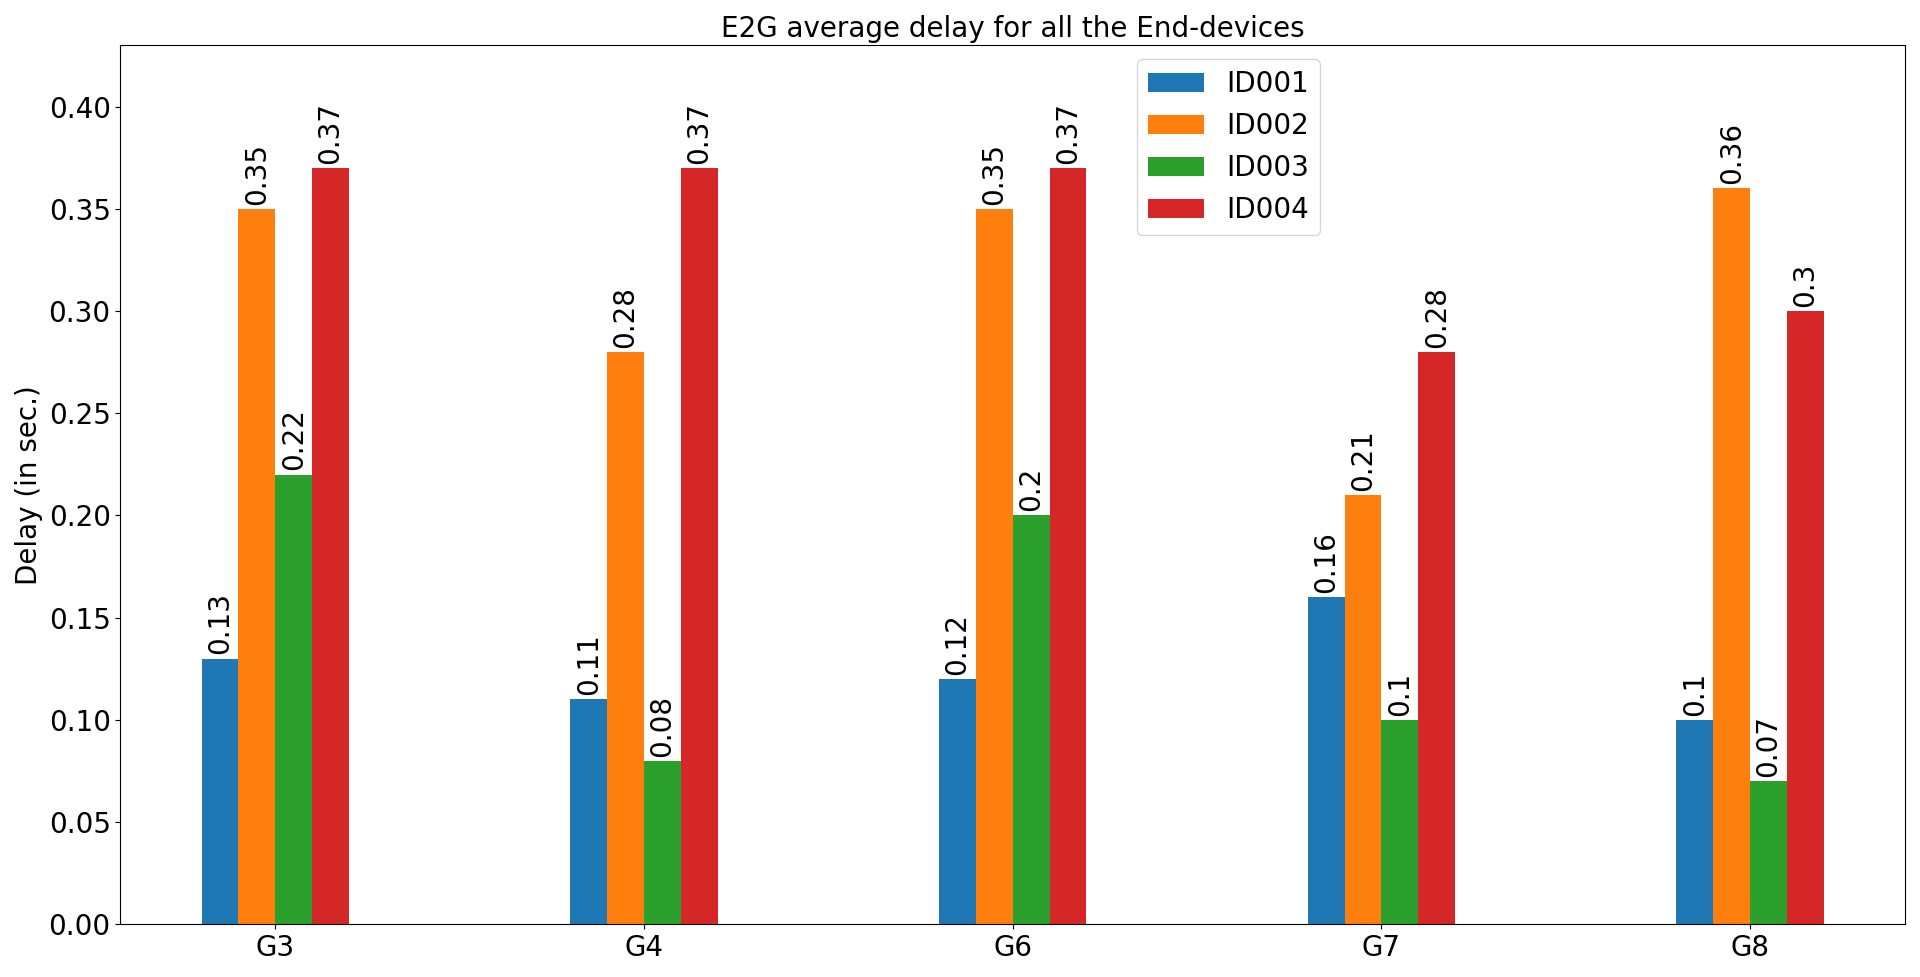
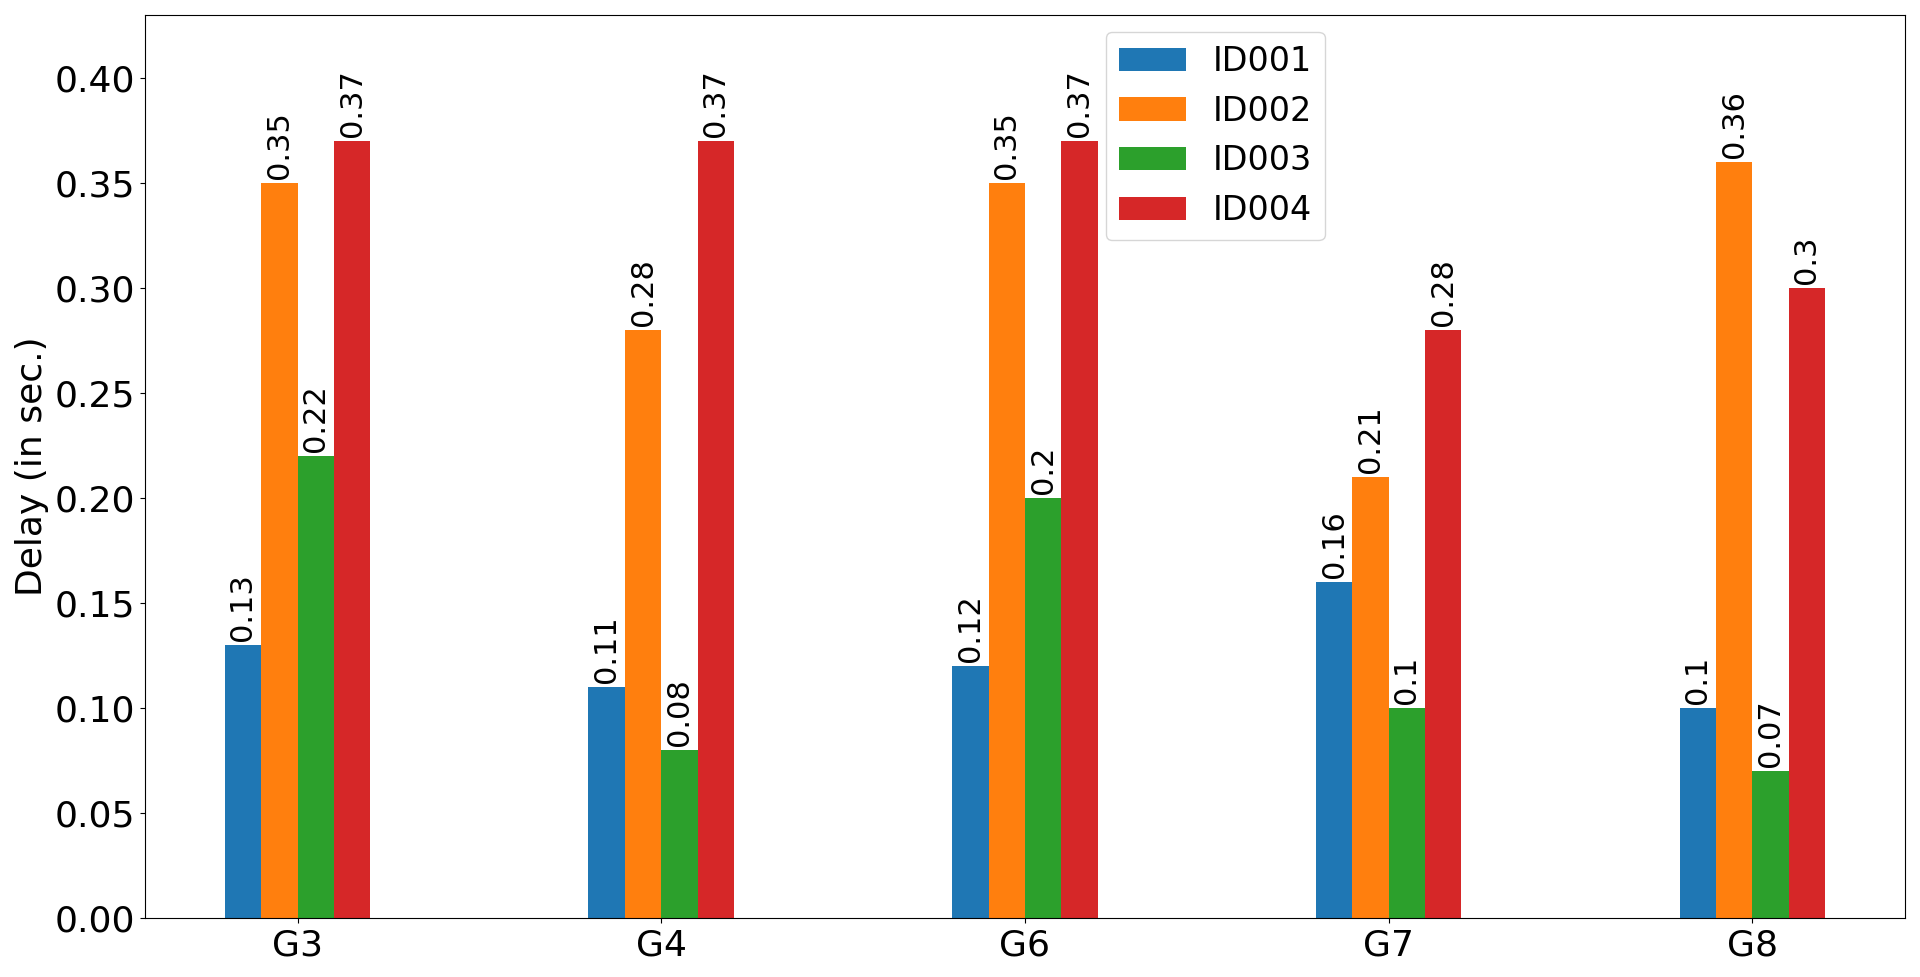
increased fontsize for labels in the plots

diff --git a/Test Data/E2H_Plottingscript.py b/Test Data/E2H_Plottingscript.py
@@ -249,16 +249,16 @@ def plot_results_avgdelay(enddevice_id, e2h_avgdelay_e1, e2h_avgdelay_e2, e2h_av
     e2_e2h_delay = plt.bar(x - width/2,e2h_avgdelay_e2, width, label=enddevice_id[1])
     e3_e2h_delay = plt.bar(x + width/2,e2h_avgdelay_e3, width, label=enddevice_id[2])
     e4_e2h_delay = plt.bar(x + 1.5* width,e2h_avgdelay_e4, width, label=enddevice_id[3])
-    plt.bar_label(e1_e2h_delay, padding=3, rotation = 90, fontsize=20)
-    plt.bar_label(e2_e2h_delay, padding=3, rotation = 90, fontsize=20)
-    plt.bar_label(e3_e2h_delay, padding=3, rotation = 90, fontsize=20)
-    plt.bar_label(e4_e2h_delay, padding=3, rotation = 90, fontsize=20)
-    plt.ylabel('Delay (in sec.)', fontsize=20)
-    plt.title('E2H average delay for all the End-devices', fontsize=20)
-    plt.xticks(x, labels, fontsize=20)
-    plt.ylim(0,26)
-    plt.yticks(fontsize=20)
-    plt.legend(fontsize=20,bbox_to_anchor=(0.68,1))
+    plt.bar_label(e1_e2h_delay, padding=3, rotation = 90, fontsize=26)
+    plt.bar_label(e2_e2h_delay, padding=3, rotation = 90, fontsize=26)
+    plt.bar_label(e3_e2h_delay, padding=3, rotation = 90, fontsize=26)
+    plt.bar_label(e4_e2h_delay, padding=3, rotation = 90, fontsize=26)
+    plt.ylabel('Delay (in sec.)', fontsize=26)
+    # plt.title('E2H average delay for all the End-devices', fontsize=20)
+    plt.xticks(x, labels, fontsize=26)
+    plt.ylim(0,27)
+    plt.yticks(fontsize=26)
+    plt.legend(fontsize=24,bbox_to_anchor=(0.68,1))
     plt.tight_layout()
     plt.show()
     plt.close()
@@ -269,16 +269,16 @@ def plot_results_avgdelay(enddevice_id, e2h_avgdelay_e1, e2h_avgdelay_e2, e2h_av
     e2_e2g_delay = plt.bar(x - width/2,e2g_avgdelay_e2, width, label=enddevice_id[1])
     e3_e2g_delay = plt.bar(x + width/2,e2g_avgdelay_e3, width, label=enddevice_id[2])
     e4_e2g_delay = plt.bar(x + 1.5* width,e2g_avgdelay_e4, width, label=enddevice_id[3])
-    plt.bar_label(e1_e2g_delay, padding=3, rotation = 90, fontsize=20)
-    plt.bar_label(e2_e2g_delay, padding=3, rotation = 90, fontsize=20)
-    plt.bar_label(e3_e2g_delay, padding=3, rotation = 90, fontsize=20)
-    plt.bar_label(e4_e2g_delay, padding=3, rotation = 90, fontsize=20)
-    plt.ylabel('Delay (in sec.)', fontsize=20)
-    plt.title('E2G average delay for all the End-devices', fontsize=20)
-    plt.xticks(x, labels, fontsize=20)
+    plt.bar_label(e1_e2g_delay, padding=3, rotation = 90, fontsize=22)
+    plt.bar_label(e2_e2g_delay, padding=3, rotation = 90, fontsize=22)
+    plt.bar_label(e3_e2g_delay, padding=3, rotation = 90, fontsize=22)
+    plt.bar_label(e4_e2g_delay, padding=3, rotation = 90, fontsize=22)
+    plt.ylabel('Delay (in sec.)', fontsize=26)
+    # plt.title('E2G average delay for all the End-devices', fontsize=20)
+    plt.xticks(x, labels, fontsize=26)
     plt.ylim(0,0.43)
-    plt.yticks(fontsize=20)
-    plt.legend(fontsize=20,bbox_to_anchor=(0.68,1))
+    plt.yticks(fontsize=26)
+    plt.legend(fontsize=24,bbox_to_anchor=(0.68,1))
     plt.tight_layout()
     plt.show()
     plt.close()
@@ -288,16 +288,16 @@ def plot_results_avgdelay(enddevice_id, e2h_avgdelay_e1, e2h_avgdelay_e2, e2h_av
     e2_g2h_delay = plt.bar(x - width/2,g2h_avgdelay_e2, width, label=enddevice_id[1])
     e3_g2h_delay = plt.bar(x + width/2,g2h_avgdelay_e3, width, label=enddevice_id[2])
     e4_g2h_delay = plt.bar(x + 1.5* width,g2h_avgdelay_e4, width, label=enddevice_id[3])
-    plt.bar_label(e1_g2h_delay, padding=3, rotation = 90, fontsize=20)
-    plt.bar_label(e2_g2h_delay, padding=3, rotation = 90, fontsize=20)
-    plt.bar_label(e3_g2h_delay, padding=3, rotation = 90, fontsize=20)
-    plt.bar_label(e4_g2h_delay, padding=3, rotation = 90, fontsize=20)
-    plt.ylabel('Delay (in sec.)', fontsize=20)
-    plt.title('G2H average delay for all the End-devices', fontsize=20)
-    plt.xticks(x, labels, fontsize=20)
+    plt.bar_label(e1_g2h_delay, padding=3, rotation = 90, fontsize=22)
+    plt.bar_label(e2_g2h_delay, padding=3, rotation = 90, fontsize=22)
+    plt.bar_label(e3_g2h_delay, padding=3, rotation = 90, fontsize=22)
+    plt.bar_label(e4_g2h_delay, padding=3, rotation = 90, fontsize=22)
+    plt.ylabel('Delay (in sec.)', fontsize=26)
+    # plt.title('G2H average delay for all the End-devices', fontsize=20)
+    plt.xticks(x, labels, fontsize=26)
     plt.ylim(0,14)
-    plt.yticks(fontsize=20)
-    plt.legend(fontsize=20,bbox_to_anchor=(0.68,1))
+    plt.yticks(fontsize=26)
+    plt.legend(fontsize=24,bbox_to_anchor=(0.68,1))
     plt.tight_layout()
     plt.show()
     plt.close()
@@ -306,11 +306,11 @@ def plot_results_avgdelay(enddevice_id, e2h_avgdelay_e1, e2h_avgdelay_e2, e2h_av
     plt.plot(x,e2_e2g_delratio, 'v--', markersize=10, label=enddevice_id[1],linewidth=3.0)
     plt.plot(x,e3_e2g_delratio, '^--', markersize=10, label=enddevice_id[2],linewidth=3.0)
     plt.plot(x,e4_e2g_delratio, '*--', markersize=10, label=enddevice_id[3],linewidth=3.0)
-    plt.title('Delivery Ratio for E2G communication for all the End-devices and Gateways', fontsize=20)
-    plt.xticks(x, labels, fontsize=20)
+    # plt.title('Delivery Ratio for E2G communication for all the End-devices and Gateways', fontsize=20)
+    plt.xticks(x, labels, fontsize=26)
     plt.ylim(0,1)
-    plt.yticks(fontsize=20)
-    plt.legend(fontsize=20)
+    plt.yticks(fontsize=26)
+    plt.legend(fontsize=26, bbox_to_anchor=(0.2,0.45))
     plt.grid()
     plt.tight_layout()
     plt.show()
@@ -320,11 +320,11 @@ def plot_results_avgdelay(enddevice_id, e2h_avgdelay_e1, e2h_avgdelay_e2, e2h_av
     plt.plot(x,e2_g2h_delratio, 'v--', markersize=10, label=enddevice_id[1],linewidth=3.0)
     plt.plot(x,e3_g2h_delratio, '^--', markersize=10, label=enddevice_id[2],linewidth=3.0)
     plt.plot(x,e4_g2h_delratio, '*--', markersize=10, label=enddevice_id[3],linewidth=3.0)
-    plt.title('Delivery Ratio for G2H communication for all the End-devices and Gateways', fontsize=20)
-    plt.xticks(x, labels, fontsize=20)
+    # plt.title('Delivery Ratio for G2H communication for all the End-devices and Gateways', fontsize=20)
+    plt.xticks(x, labels, fontsize=26)
     plt.ylim(0,1.1)
-    plt.yticks(fontsize=20)
-    plt.legend(fontsize=20)
+    plt.yticks(fontsize=26)
+    plt.legend(fontsize=26)
     plt.grid()
     plt.tight_layout()
     plt.show()
@@ -334,14 +334,14 @@ def plot_results_avgdelay(enddevice_id, e2h_avgdelay_e1, e2h_avgdelay_e2, e2h_av
     h2e_e2_delratio = plt.bar(enddevice_id[1],h2e_delratio[1], width=0.3, label=enddevice_id[1])
     h2e_e3_delratio = plt.bar(enddevice_id[2],h2e_delratio[2], width=0.3, label=enddevice_id[2])
     h2e_e4_delratio = plt.bar(enddevice_id[3],h2e_delratio[3], width=0.3, label=enddevice_id[3])
-    plt.bar_label(h2e_e1_delratio, padding=3, rotation = 90, fontsize=20)
-    plt.bar_label(h2e_e2_delratio, padding=3, rotation = 90, fontsize=20)
-    plt.bar_label(h2e_e3_delratio, padding=3, rotation = 90, fontsize=20)
-    plt.bar_label(h2e_e4_delratio, padding=3, rotation = 90, fontsize=20)
-    plt.title('Delivery Ratio for E2H communication for all the End-devices',fontsize=20)
-    plt.xticks(fontsize=20)
-    plt.yticks(fontsize=20)
-    plt.legend(fontsize=20)
+    plt.bar_label(h2e_e1_delratio, padding=3, rotation = 90, fontsize=22)
+    plt.bar_label(h2e_e2_delratio, padding=3, rotation = 90, fontsize=22)
+    plt.bar_label(h2e_e3_delratio, padding=3, rotation = 90, fontsize=22)
+    plt.bar_label(h2e_e4_delratio, padding=3, rotation = 90, fontsize=22)
+    # plt.title('Delivery Ratio for E2H communication for all the End-devices',fontsize=20)
+    plt.xticks(fontsize=26)
+    plt.yticks(fontsize=26)
+    plt.legend(fontsize=26)
     plt.tight_layout()
     plt.show()
     plt.close()

diff --git a/Test Data/H2E_Plottingscript.py b/Test Data/H2E_Plottingscript.py
@@ -99,7 +99,27 @@ def calculate_delay(dfh,dfg,dfe,Enddeviceid,GatewayIP):
 # Plot delay results for each-device
 
 def plot_delay_and_delratio(h2e_delay,h2g_delay,g2e_delay,h2e_delratio,Enddevices,Gateways):
-    width = 0.3
+    
+
+    labels = ['ID001', 'ID002', 'ID003', 'ID004']
+    x = np.arange(len(labels))  
+    width = 0.11
+    h2g = plt.bar(x - 2*width, h2g_delay,width,label="H2G",zorder=3)
+    g2e = plt.bar(x, g2e_delay,width,label="G2E",zorder=3)
+    h2e = plt.bar(x + 2*width, h2e_delay,width,label="H2E",zorder=3)
+    plt.bar_label(h2g, padding=3, rotation = 0, fontsize=24)
+    plt.bar_label(g2e, padding=3, rotation = 0, fontsize=24)
+    plt.bar_label(h2e, padding=3, rotation = 0, fontsize=24)
+    plt.semilogy()
+    plt.xticks(x,labels,fontsize=26)
+    plt.yticks(fontsize=26)
+    plt.ylabel('Delay (in sec.)', fontsize=26)
+    plt.xlabel('End-device', fontsize=26)
+    plt.grid(which='both',linestyle='-',color='0.8')
+    plt.legend(fontsize=26)
+    plt.tight_layout()
+    plt.show()
+    plt.close()
 
     e1_h2g_delay = plt.bar(Gateways[0], h2g_delay[0],width,label=Enddevices[0])
     e2_h2g_delay = plt.bar(Gateways[1], h2g_delay[1],width,label=Enddevices[1])
@@ -116,6 +136,8 @@ def plot_delay_and_delratio(h2e_delay,h2g_delay,g2e_delay,h2e_delratio,Enddevice
     plt.legend(fontsize=20)
     plt.show()
     plt.close()
+
+    width = 0.3
 
     e1_g2e_delay = plt.bar(Gateways[0], g2e_delay[0],width,label=Enddevices[0])
     e2_g2e_delay = plt.bar(Gateways[1], g2e_delay[1],width,label=Enddevices[1])
@@ -153,14 +175,14 @@ def plot_delay_and_delratio(h2e_delay,h2g_delay,g2e_delay,h2e_delratio,Enddevice
     e2_h2e_delratio = plt.bar(Gateways[1], h2e_delratio[1],width,label=Enddevices[1])
     e3_h2e_delratio = plt.bar(Gateways[2], h2e_delratio[2],width,label=Enddevices[2])
     e4_h2e_delratio = plt.bar(Gateways[3], h2e_delratio[3],width,label=Enddevices[3])
-    plt.bar_label(e1_h2e_delratio, padding=3, rotation = 0, fontsize=20)
-    plt.bar_label(e2_h2e_delratio, padding=3, rotation = 0, fontsize=20)
-    plt.bar_label(e3_h2e_delratio, padding=3, rotation = 0, fontsize=20)
-    plt.bar_label(e4_h2e_delratio, padding=3, rotation = 0, fontsize=20)
-    plt.title('Delivery Ratio for each end-device in H2E communication', fontsize=20)
-    plt.legend(fontsize=20)
-    plt.xticks(fontsize=20)
-    plt.yticks(fontsize=20)
+    plt.bar_label(e1_h2e_delratio, padding=3, rotation = 0, fontsize=26)
+    plt.bar_label(e2_h2e_delratio, padding=3, rotation = 0, fontsize=26)
+    plt.bar_label(e3_h2e_delratio, padding=3, rotation = 0, fontsize=26)
+    plt.bar_label(e4_h2e_delratio, padding=3, rotation = 0, fontsize=26)
+    # plt.title('Delivery Ratio for each end-device in H2E communication', fontsize=26)
+    plt.legend(fontsize=26)
+    plt.xticks(fontsize=26)
+    plt.yticks(fontsize=26)
     plt.show()
     plt.close()
 #####################################################################################################
